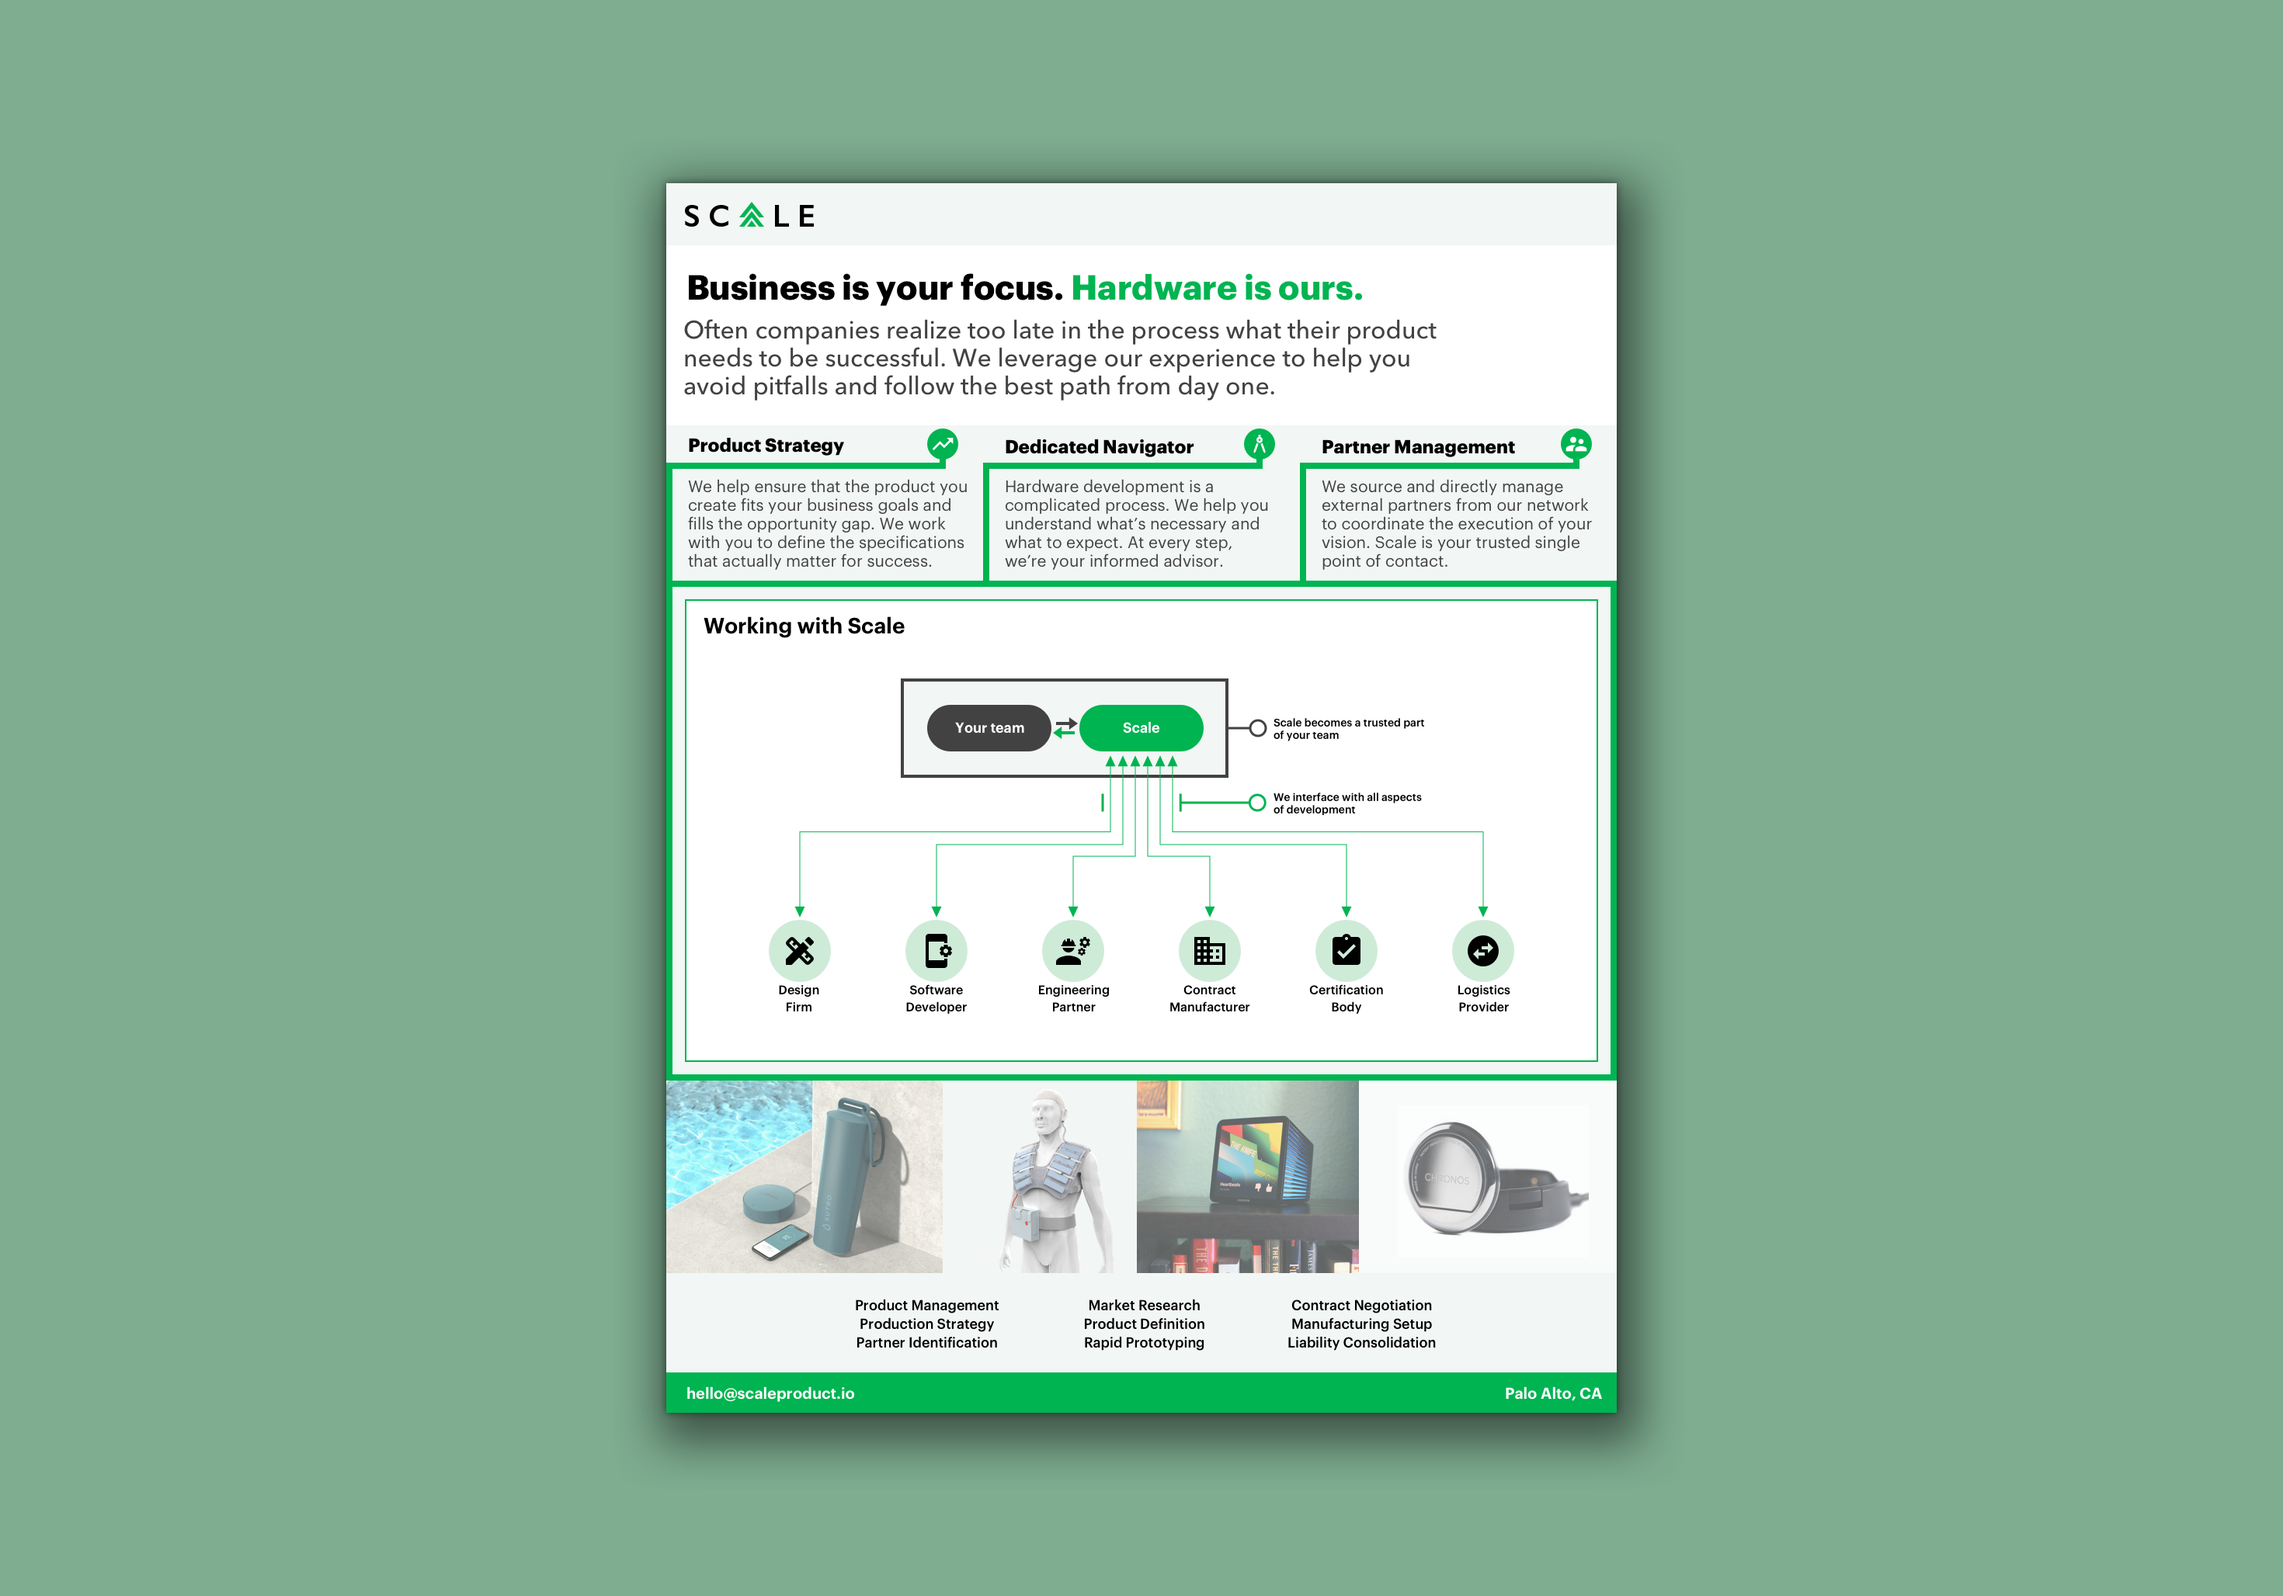
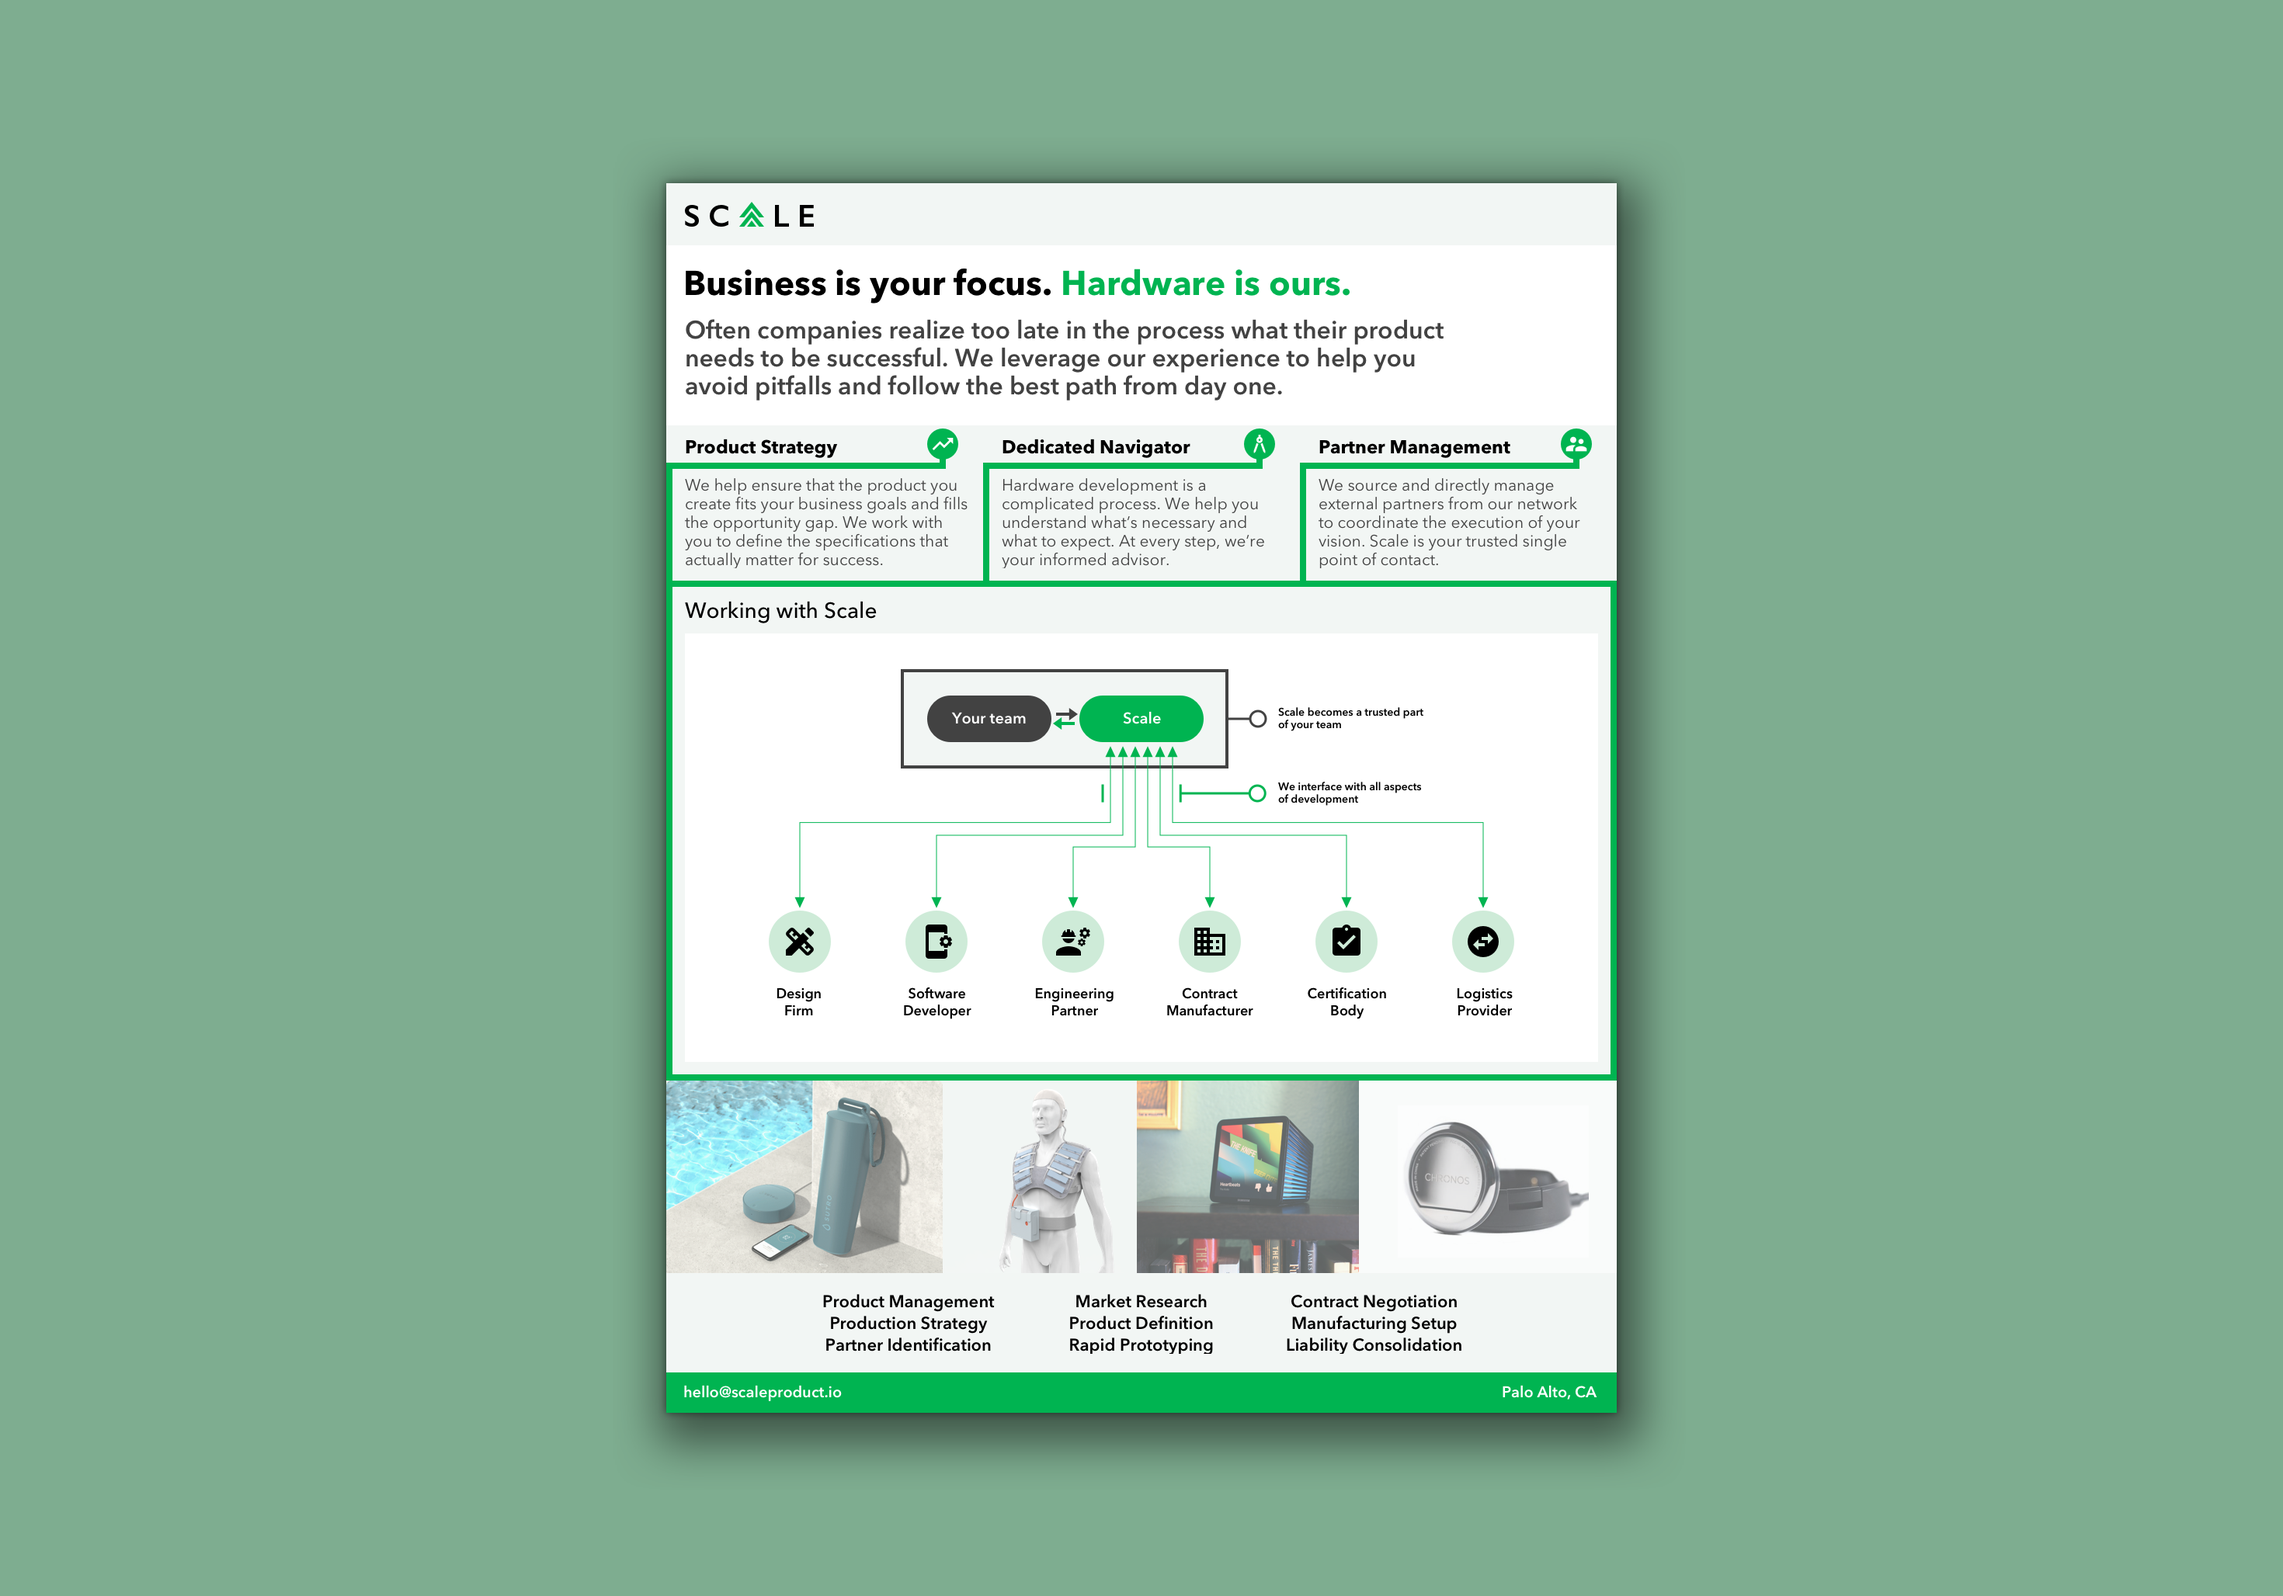
Fix Scale images, add Meru

diff --git a/meru.html b/meru.html
@@ -1,0 +1,76 @@
+<!DOCTYPE HTML>
+<!--
+	Strata by HTML5 UP
+	html5up.net | @ajlkn
+	Free for personal and commercial use under the CCA 3.0 license (html5up.net/license)
+-->
+<html>
+	<head>
+		<title>Animated Petals</title>
+		<meta charset="utf-8" />
+		<meta name="viewport" content="width=device-width, initial-scale=1, user-scalable=no" />
+		<link rel="stylesheet" href="assets/css/main.css" />
+	</head>
+	<body class="is-preload">
+
+		<!-- Header -->
+		<!-- <header id="header">
+			<div class="inner">
+				<h2><a class="title" href="index.html">autumn basinger</a></h2>
+				<li>‽ <a href="about.html">design philosophy & about</a></li>
+				</br>
+				<h1>my work</h1>
+					<li>‽ <a class="selected" href="pax.html">animated petals</a></li>
+					<li>‽ <a href="weather.html">mobile weather app</a></li>
+					<li>‽ <a href="apple.html">process automation</a></li>
+					<li>‽ <a href="scale.html">content design</a></li>
+					<li>‽ <a href="makenote.html">music instrument</a></li>
+					<li>‽ <a href="turvangles.html">interactive shapes</a></li>
+					<li>‽ <a href="scentsation.html">scented emotions</a></li>
+			</div>
+		</header> -->
+
+		<!-- Main -->
+			<div style="margin:6%;">
+					<section id="one">
+						<h3>User guide for PAX Era Pro device</h3>
+						<p>PAX Labs' Era Pro cannabis vaporizer communicates with users through a four-petal LED interface.
+							In addition to designing petal animations, I wrote the content and created graphics for the user guide
+							which explains Era Pro's many interactive animations.</p>
+						<span class="image fit"><img src="images/pax-teal.png" alt="" /></span>
+						<iframe height="600" width="200" src="https://cdn.shopify.com/s/files/1/0076/6132/2276/files/PAX_Era_Pro_User_Guide.pdf"></iframe>
+					</section>
+
+				<hr width="100%" size="8" align="center"></br>
+
+					<section id="two">
+						<h3>One page PDF flyer & logo for Scale</h3>
+						<p>Scale is a consulting agency that helps hardware startups succeed from product strategy through to mass production.
+							I refined Scale's existing company logo, and then designed their informational one pager communicating the value that
+							Scale brings to hardware startups.</p>
+						<span class="image fit"><img src="images/scale-logos.png" alt="" /></span>
+						<span class="image fit"><img src="images/scale-mock-close.png" alt="" /></span>
+						<span class="image fit"><img src="images/scale-brand.png" alt="" /></span>
+					</section>
+
+				<hr width="100%" size="8" align="center"></br>
+
+					<section id="three">
+						<h3>Skills</h3>
+						<ul>
+							<li>Technical - Sketch, Invision, Illustrator, Photoshop, Keynote, Powerpoint, HTML/CSS, JavaScript, Python</li>
+							<li>Knowledge - UX design, web design, front-end development, user research/testing, content design, data analysis</li>
+						</ul>
+					</section>
+			</div>
+
+		<!-- Scripts -->
+			<script src="assets/js/jquery.min.js"></script>
+			<script src="assets/js/jquery.poptrox.min.js"></script>
+			<script src="assets/js/browser.min.js"></script>
+			<script src="assets/js/breakpoints.min.js"></script>
+			<script src="assets/js/util.js"></script>
+			<script src="assets/js/main.js"></script>
+
+	</body>
+</html>
